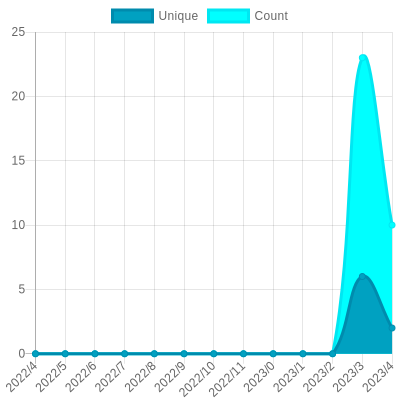
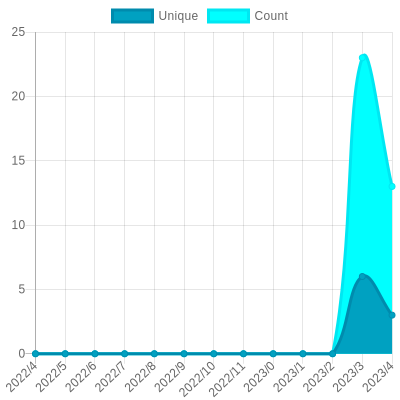
Update views

diff --git a/readme/150410385/year.md b/readme/150410385/year.md
@@ -23,10 +23,10 @@
 			<code>2022/5/1</code>
 		</td>
 		<td>
-			<code>2</code>
+			<code>3</code>
 		</td>
 		<td>
-			<code>10</code>
+			<code>13</code>
 		</td>
 	</tr>
 	<tr>
@@ -164,7 +164,7 @@
 </table>
 
 </details>
-<small><i>Last updated on 2022/5/14 12:15 AM UTC</i></small>
+<small><i>Last updated on 2022/5/14 6:17 AM UTC</i></small>
 
 ## ✂Copy and 📋 Paste
 ### SVG Badge

diff --git a/README.md b/README.md
@@ -37,7 +37,7 @@ The project created and maintained by [gayanvoice](https://github.com/gayanvoice
 	</tr>
 </table>
 
-<small><i>Last updated on 2022/5/14 12:15 AM UTC</i></small>
+<small><i>Last updated on 2022/5/14 6:17 AM UTC</i></small>
 
 ## ✂Copy and 📋 Paste
 ### Total Views Badge
